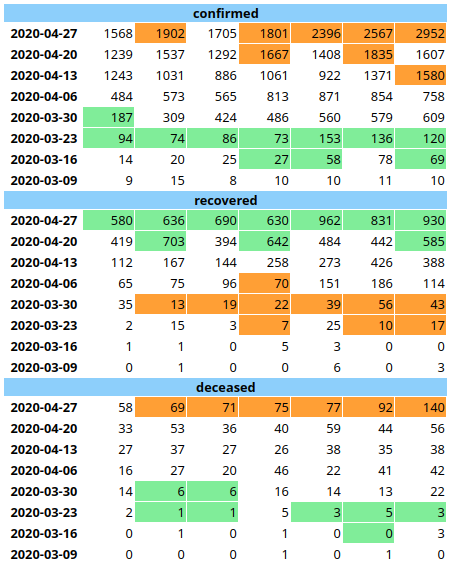
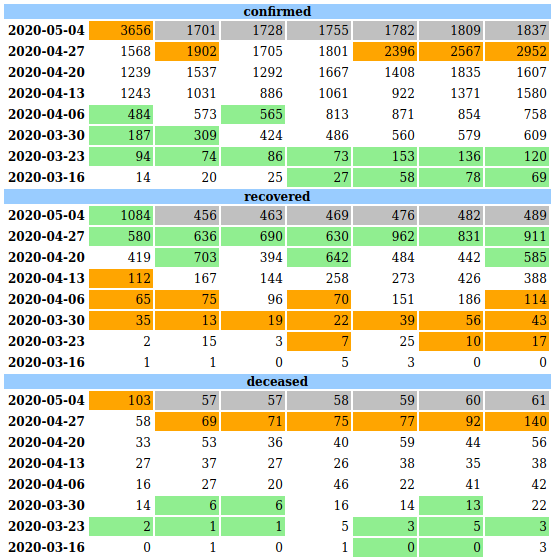
Updated screenshot and removed inline gist

diff --git a/content/weekwise_anomaly_detection.md b/content/weekwise_anomaly_detection.md
@@ -156,9 +156,15 @@ last 8 weeks, but out of turn dates too.
 
 The real meat is in this file, `weeklies.py`.
 
-Instead of keeping it here, I've added to a gist.
+Instead of keeping it here, I've added to a [public gist](https://gist.github.com/vsbabu/9f9bcfbbba12bc988cc71cb53d5c1418).
 
-{{gist(url="https://gist.github.com/vsbabu/9f9bcfbbba12bc988cc71cb53d5c1418", class="gist")}}
+Some examples that you might find useful in that code outside of *fbprophet* are below.
+
+1. [argparser](https://docs.python.org/3/library/argparse.html) module to easily handle command line arguments
+1. Find nth Monday before this week `today - datetime.timedelta(days=today.weekday(), weeks = n)`
+1. Make a date range in pandas `dates = pd.date_range(start_date, periods=((days))`
+1. Adding a mask to a dataframe for some columns, based on values in other columns
+1. Apply html style and hide columns to render a dataframe.
 
 ## Final Setup
 
